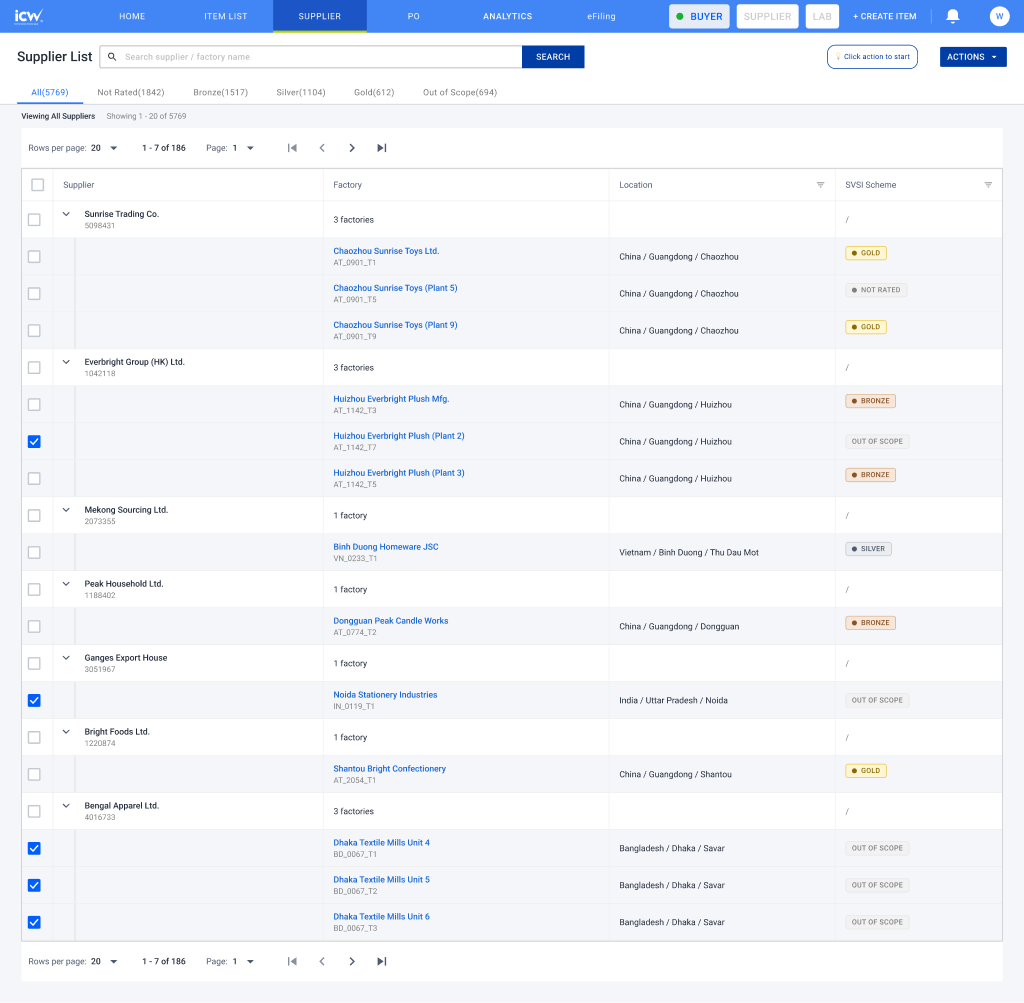
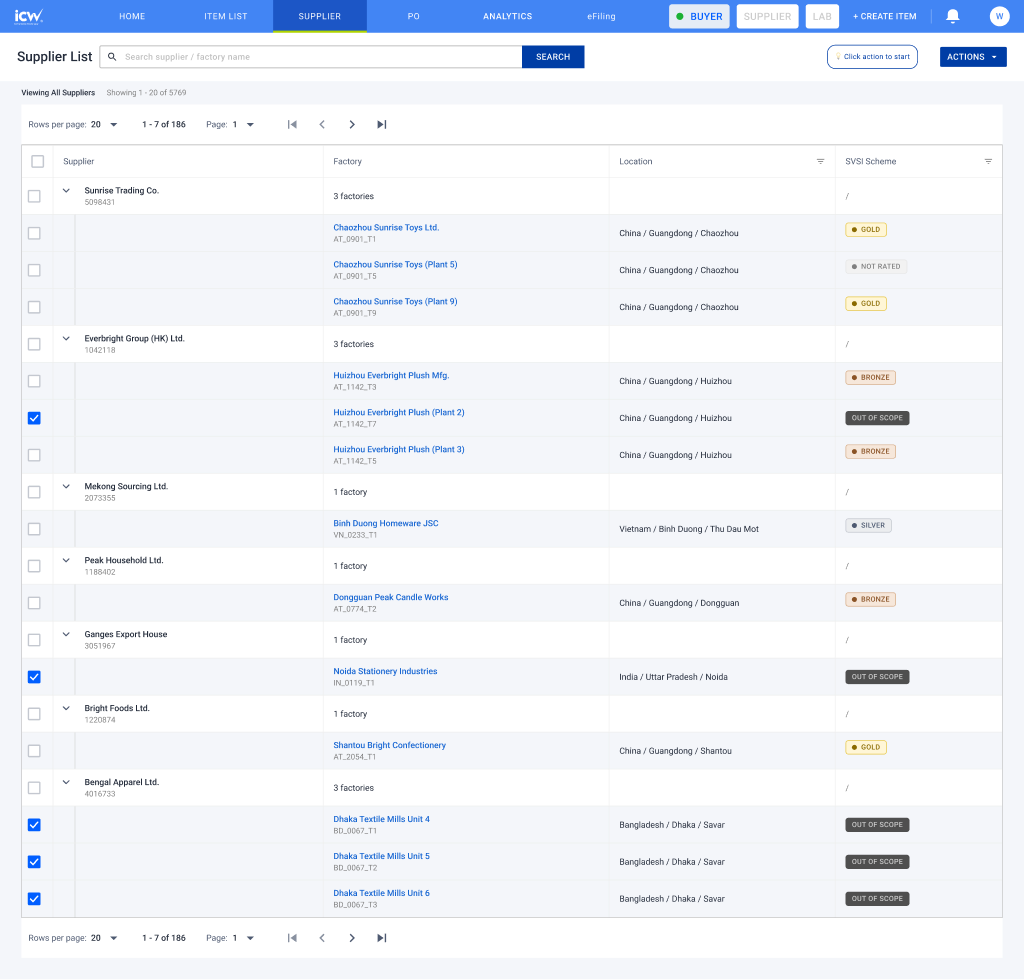
Supplier list has no tier tabs
The Buyer supplier list now filters by the SVSI Scheme column only.
New screenshots for steps 00 (list and Mark SVSI) and matching copy.

diff --git a/index.html b/index.html
@@ -283,7 +283,7 @@ footer{margin-top:44px; padding-top:22px; border-top:1px solid var(--line); colo
       <a class="shot" href="https://www.figma.com/design/aJIs39okLTRsQMwk96NWrC/SVSI?node-id=530-3455" target="_blank" rel="noopener"><img src="shots/s01_supplier_list.png" alt="Supplier list expanded to show the factories under each supplier" loading="lazy"></a>
       <div class="body">
         <h3>Supplier list, expanded</h3>
-        <p>Each supplier row opens to the factories under it. Every factory carries its own SVSI scheme chip, and the scheme tabs filter the list by tier.</p>
+        <p>Each supplier row opens to the factories under it. Every factory carries its own SVSI scheme chip, and the SVSI Scheme column filter narrows the list by tier (there are no tier tabs).</p>
         <a class="go" href="https://www.figma.com/design/aJIs39okLTRsQMwk96NWrC/SVSI?node-id=530-3455" target="_blank" rel="noopener">Open in Figma <span class="id">530:3455</span></a>
       </div>
     </div>
@@ -735,7 +735,7 @@ footer{margin-top:44px; padding-top:22px; border-top:1px solid var(--line); colo
     <h2>Open questions for the team</h2>
     <p class="sub">Things the design cannot settle on its own.</p>
     <ul class="qlist">
-      <li><b>What can TBG do with each scheme?</b><span>The scheme tabs (Not Rated, Bronze, Silver, Gold, Out of Scope) filter the list today. Once a tier is picked, which actions should each one offer?</span></li>
+      <li><b>What can TBG do with each scheme?</b><span>The SVSI Scheme column filter (Not Rated, Bronze, Silver, Gold, Out of Scope) narrows the list today; there are no tier tabs. Once a tier is picked, which actions should each one offer?</span></li>
       <li><b>How should the Factory and Supplier tables sort?</b><span>Supplier by name A to Z and Factory by SVSI Task Status, or a Create Date column on both, latest first, like the Audit List.</span></li>
       <li><b>Seasonal items are picked per WIC but written per category.</b><span>The item list selects Seasonal items individually; the Addendum lists Seasonal only as a Product Category. Is that roll-up automatic, or does the buyer choose the categories again when generating?</span></li>
       <li><b>Validity starts from the Addendum Effective Date, not the completion date.</b><span>In the signed Greatstar example both fall on the same day. If they can differ, which one drives the validity window?</span></li>

diff --git a/src/tpl.html b/src/tpl.html
@@ -273,7 +273,7 @@ footer{margin-top:44px; padding-top:22px; border-top:1px solid var(--line); colo
     <h2>Open questions for the team</h2>
     <p class="sub">Things the design cannot settle on its own.</p>
     <ul class="qlist">
-      <li><b>What can TBG do with each scheme?</b><span>The scheme tabs (Not Rated, Bronze, Silver, Gold, Out of Scope) filter the list today. Once a tier is picked, which actions should each one offer?</span></li>
+      <li><b>What can TBG do with each scheme?</b><span>The SVSI Scheme column filter (Not Rated, Bronze, Silver, Gold, Out of Scope) narrows the list today; there are no tier tabs. Once a tier is picked, which actions should each one offer?</span></li>
       <li><b>How should the Factory and Supplier tables sort?</b><span>Supplier by name A to Z and Factory by SVSI Task Status, or a Create Date column on both, latest first, like the Audit List.</span></li>
       <li><b>Seasonal items are picked per WIC but written per category.</b><span>The item list selects Seasonal items individually; the Addendum lists Seasonal only as a Product Category. Is that roll-up automatic, or does the buyer choose the categories again when generating?</span></li>
       <li><b>Validity starts from the Addendum Effective Date, not the completion date.</b><span>In the signed Greatstar example both fall on the same day. If they can differ, which one drives the validity window?</span></li>

diff --git a/src/gen.py b/src/gen.py
@@ -73,7 +73,7 @@ S=[]
 S.append(step('s0','00','Before the task exists',[('buyer','QT')],
  'SVSI applies to a <strong>factory</strong>, not a supplier. So the buyer starts from the supplier list, expands a supplier to see the factories underneath it, and decides which of those factories are in scope. Adding a factory to SVSI puts it at <strong>Not Rated</strong>; the scheme is set after the audit. Factories that will never join are marked <strong>Out of Scope</strong>.',
  ['Q1','Q3','Q4','Q5','Q2'],
- [('s01_supplier_list.png','530:3455','Supplier list, expanded','Each supplier row opens to the factories under it. Every factory carries its own SVSI scheme chip, and the scheme tabs filter the list by tier.','Supplier list expanded to show the factories under each supplier'),
+ [('s01_supplier_list.png','530:3455','Supplier list, expanded','Each supplier row opens to the factories under it. Every factory carries its own SVSI scheme chip, and the SVSI Scheme column filter narrows the list by tier (there are no tier tabs).','Supplier list expanded to show the factories under each supplier'),
   ('s02_mark_svsi.png','952:3937','Add to or remove from SVSI','Bulk-select factories, then use Actions. Adding confirms first and lands every factory at <code>NOT RATED</code>; removing moves it to <code>OUT OF SCOPE</code>.','Selecting out-of-scope factories before adding them to SVSI')],
  [('Also in this area',[('Supplier list, collapsed (default view)','6:2'),('Add To SVSI, confirm','3744:15578'),('Add To SVSI, done','2075:12383'),('Remove From SVSI, confirm','2078:5392'),('Factory detail, overview','832:18557'),('Supplier detail, overview','2100:5389')])]))
 S.append(step('s1','01','Application',[('supplier','Supplier applies'),('buyer','QT checks')],
